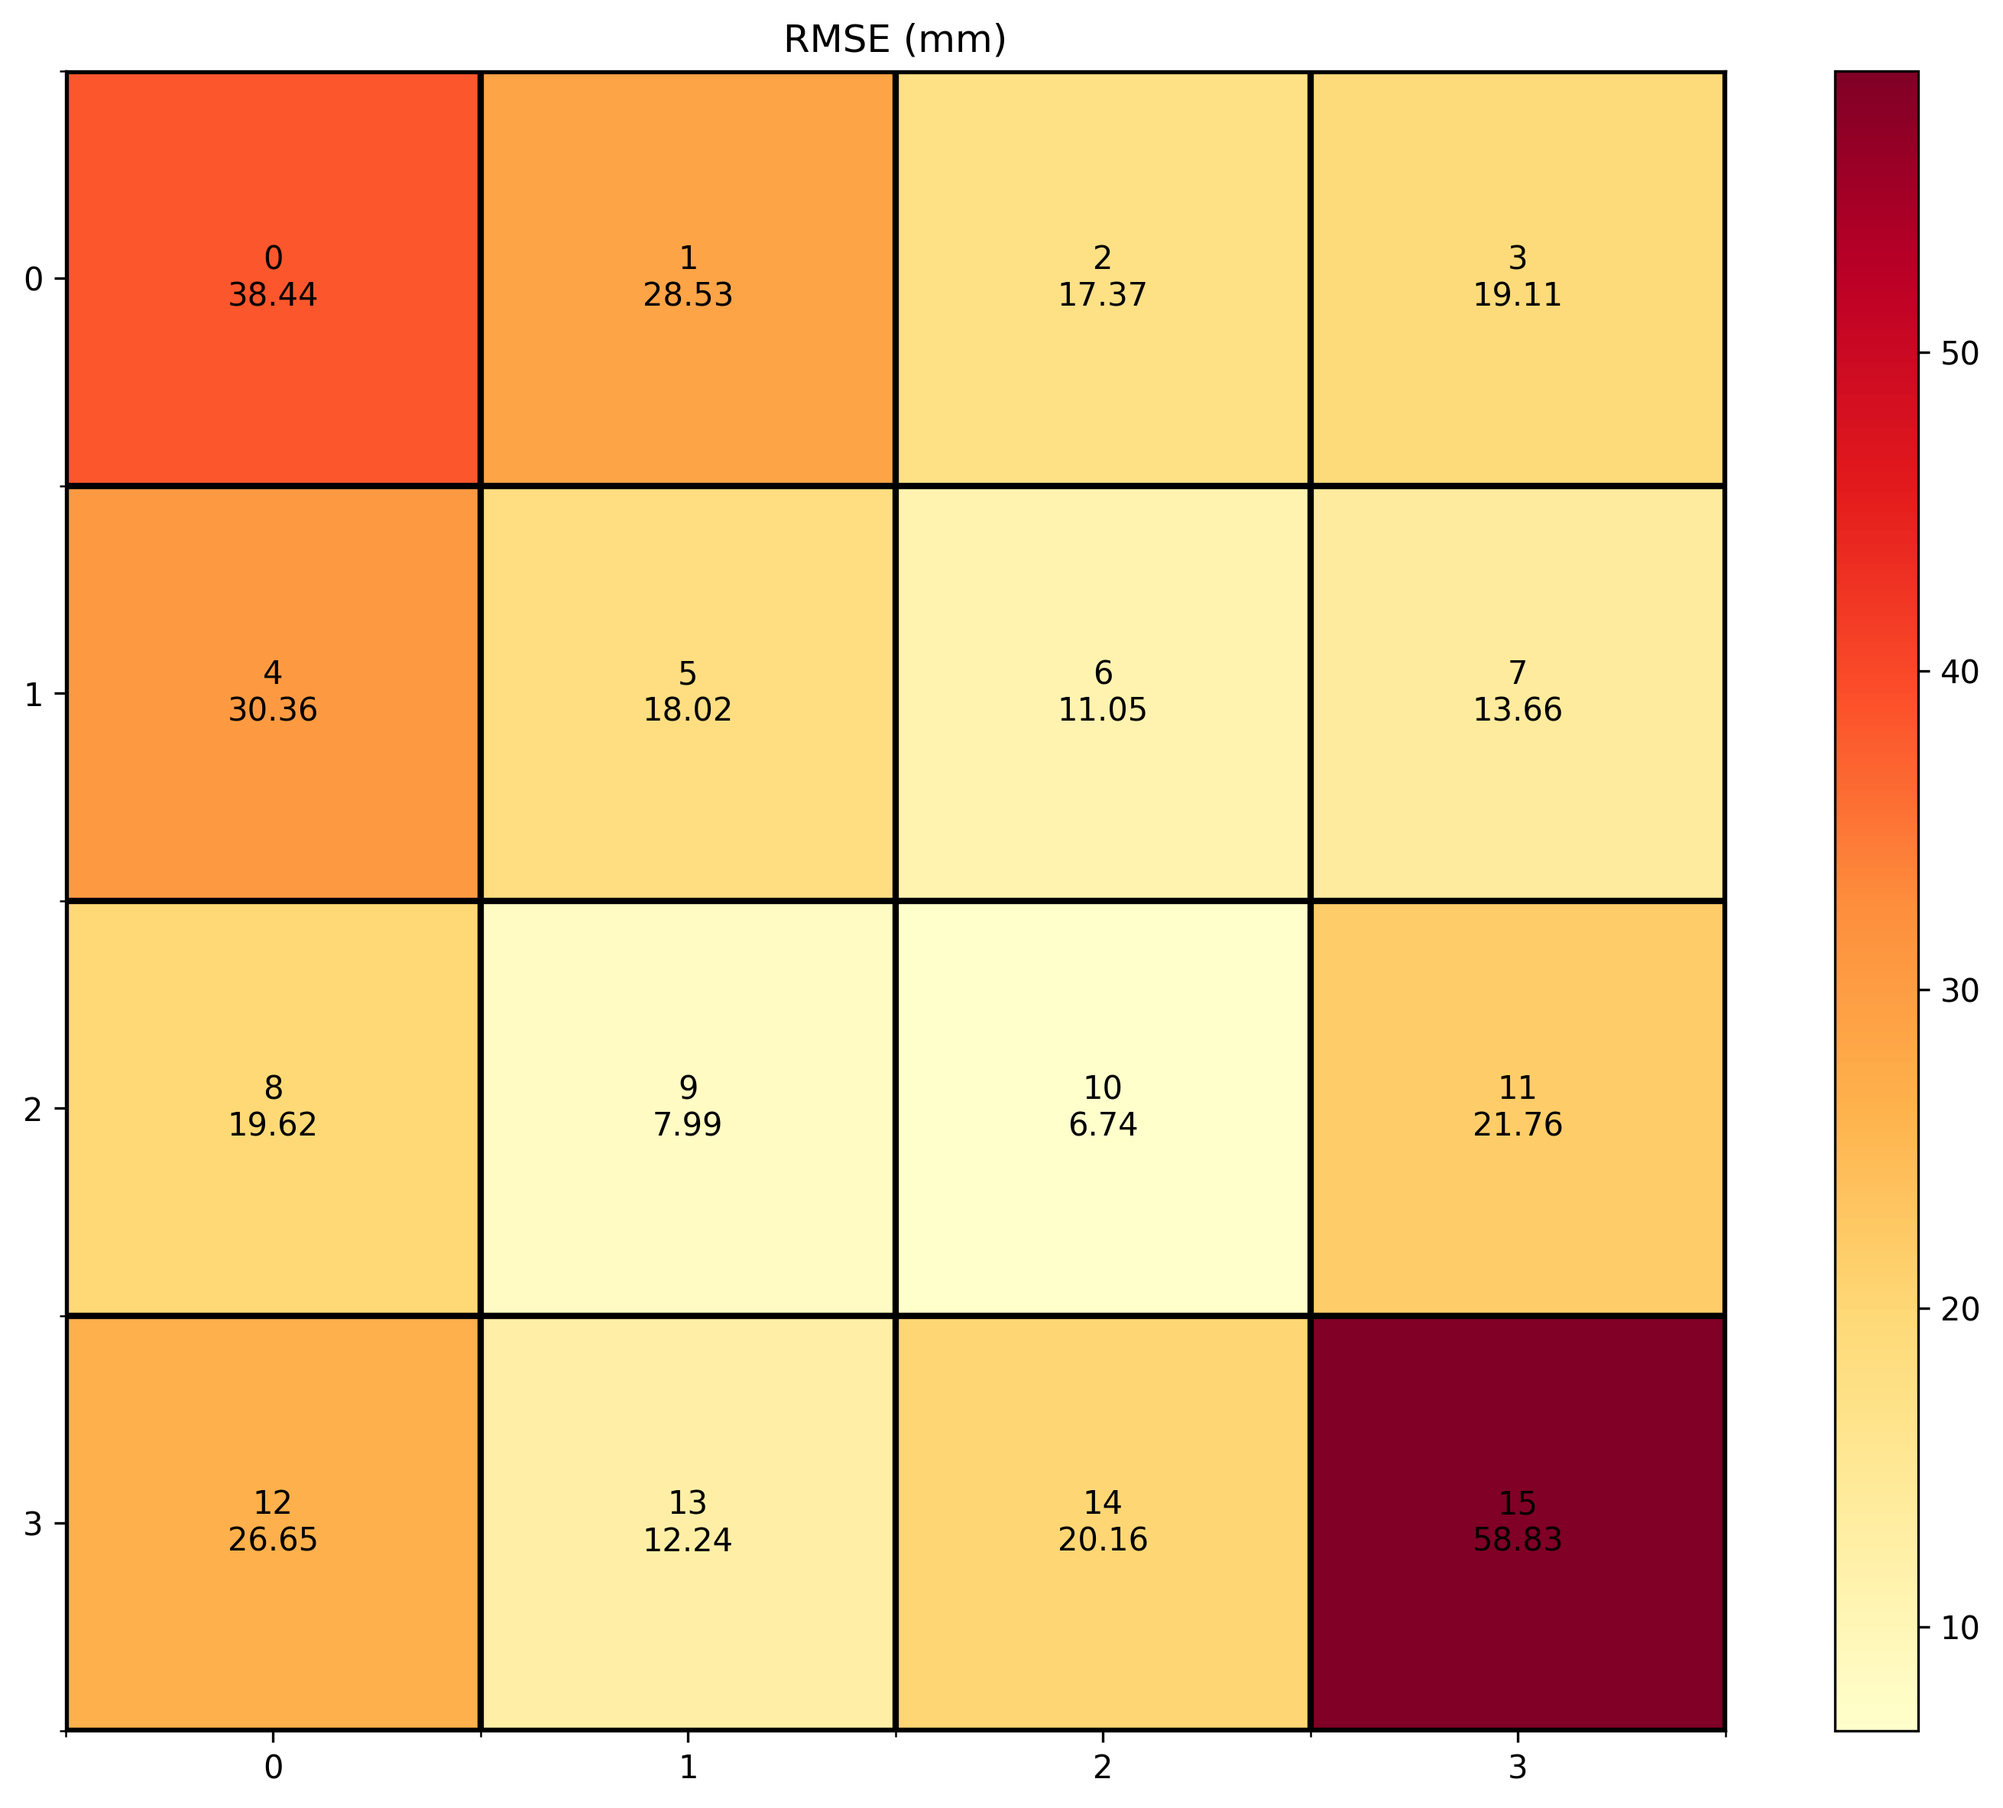
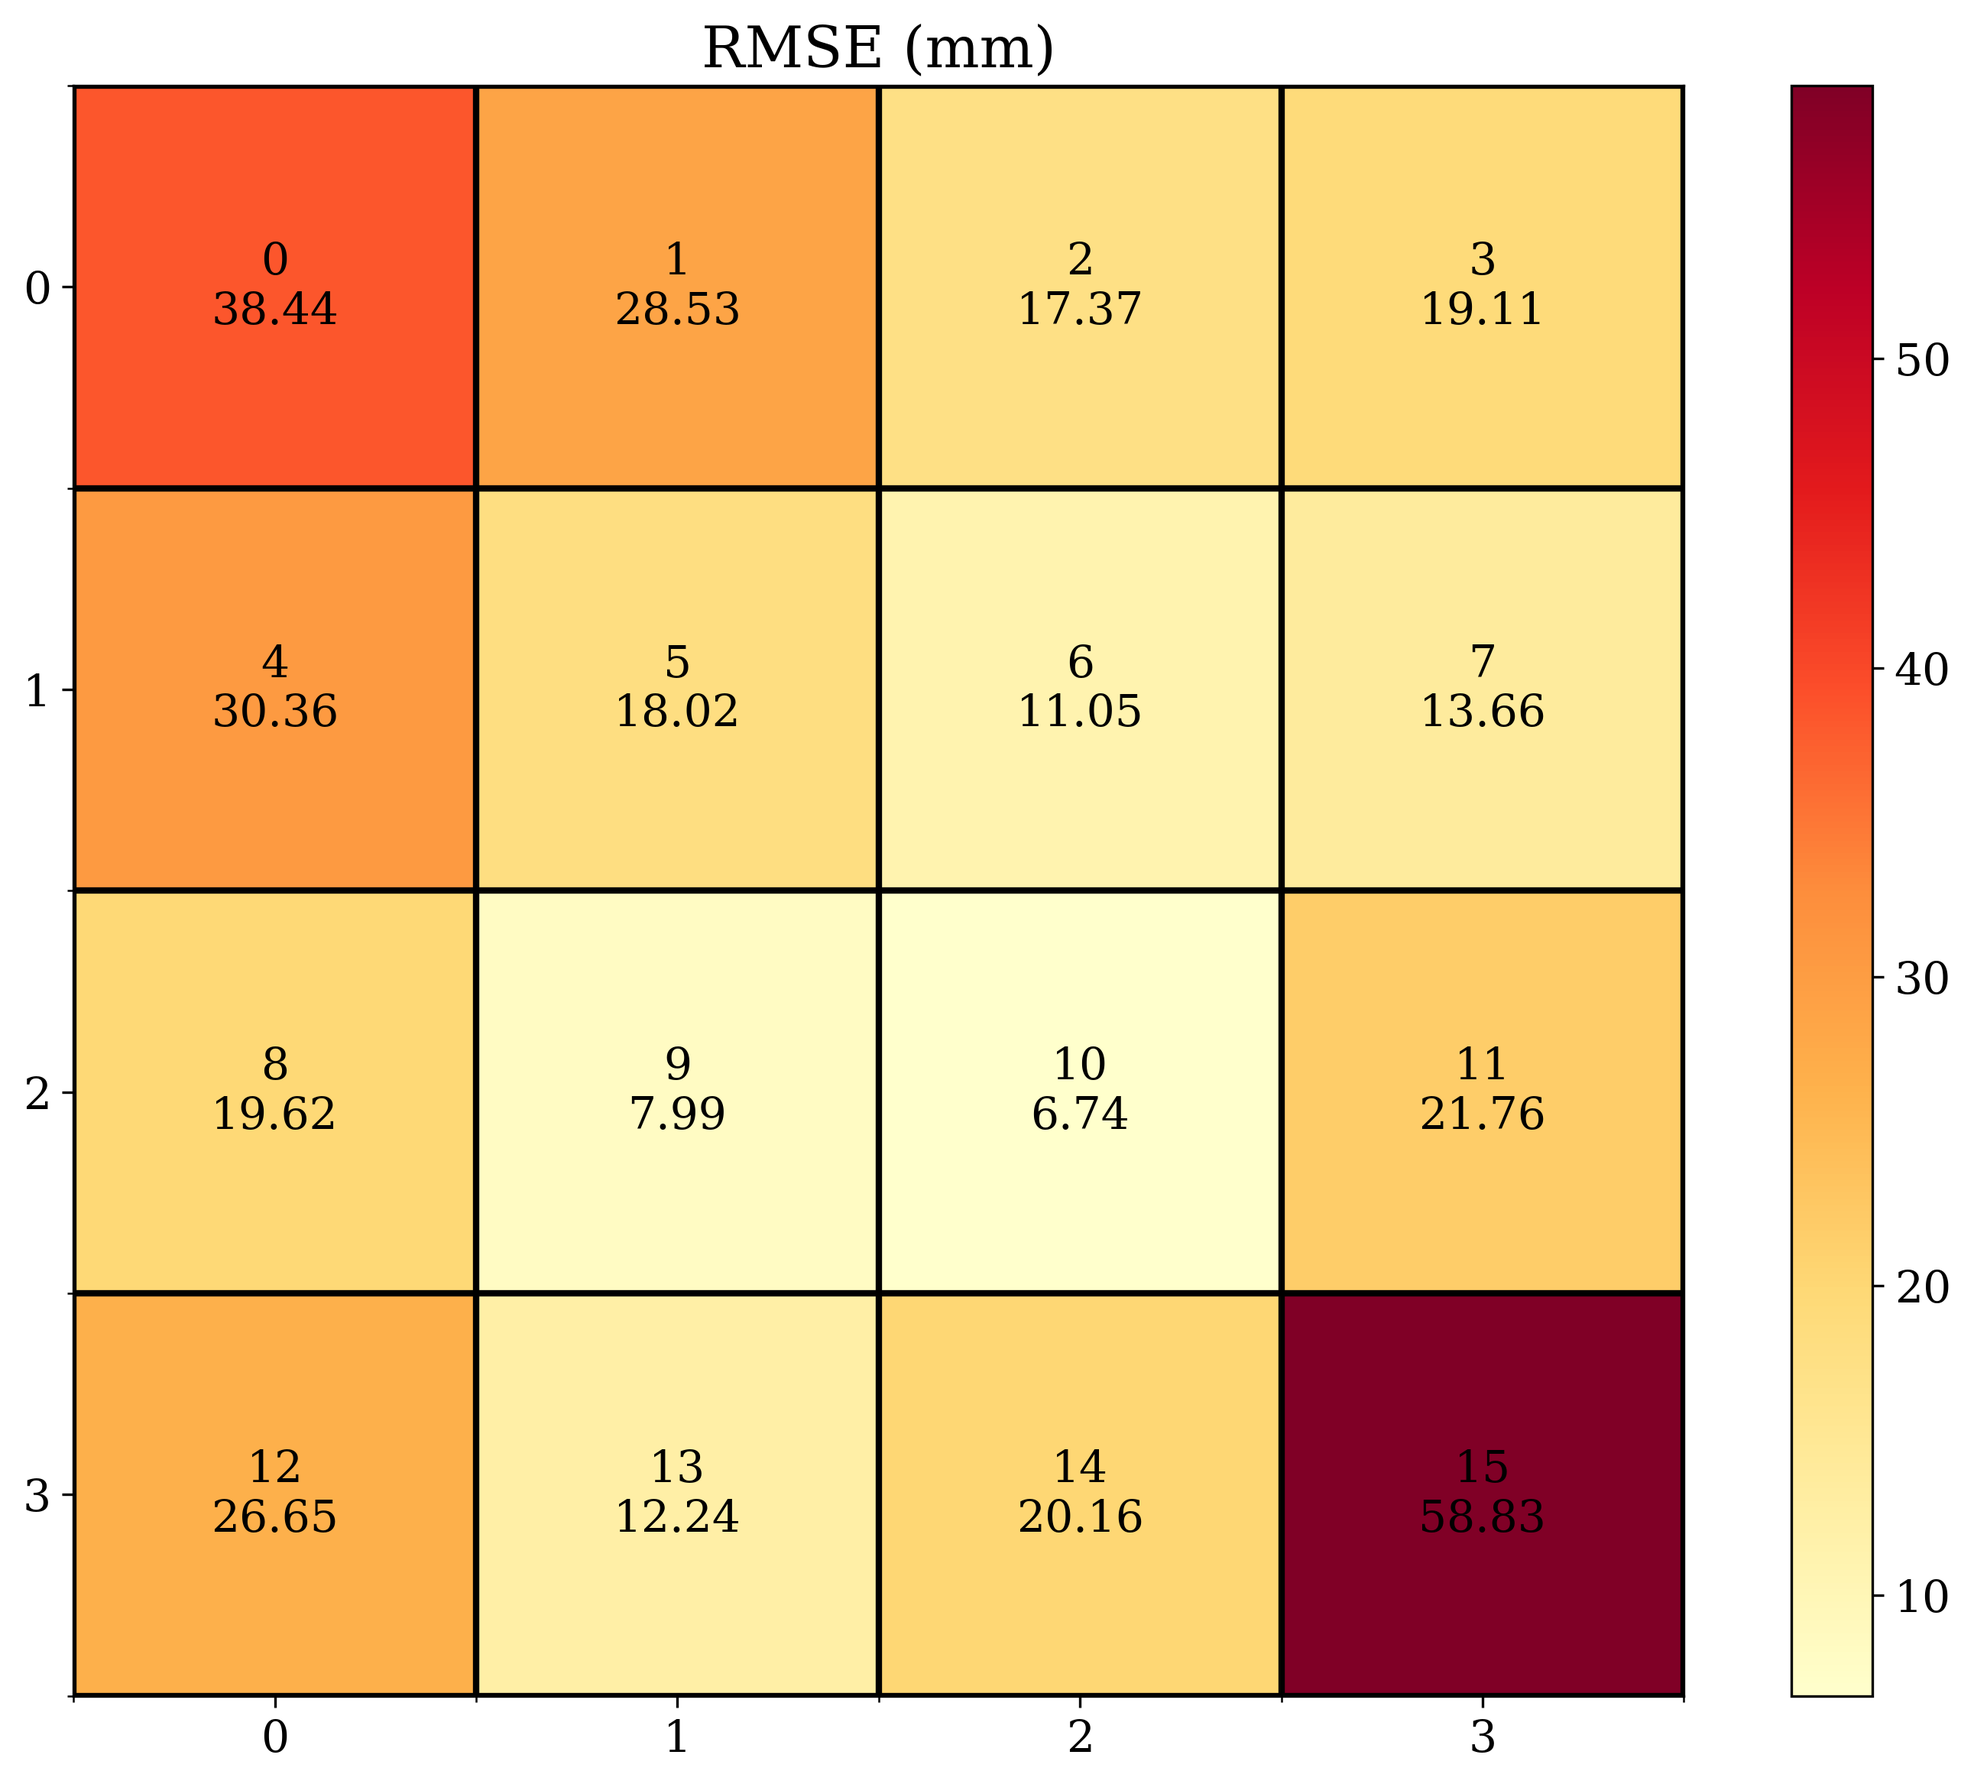
update fig

diff --git a/scripts/tof_error_analysis.py b/scripts/tof_error_analysis.py
@@ -1,16 +1,37 @@
 #!/usr/bin/env python3
 
 import numpy as np
-import matplotlib.pyplot as plt
 import json
 import os
 import glob
 import argparse
+
+import matplotlib.pyplot as plt
+import matplotlib as mpl
+from matplotlib import font_manager
 from matplotlib.colors import LinearSegmentedColormap
 
-# Set matplotlib to use non-interactive backend for headless environments
 import matplotlib
 matplotlib.use('Agg')
+
+
+plt.rcParams['figure.figsize'] = (12, 8)  # Larger default figure size
+plt.rcParams["figure.autolayout"]  = True
+plt.rcParams["figure.dpi"] = 300
+
+
+
+# Set font with fallbacks to system fonts
+plt.rcParams['font.family'] = 'serif'
+
+plt.rcParams['font.size'] = 14  # Base font size
+plt.rcParams['axes.titlesize'] = 18  # Title font size
+plt.rcParams['axes.labelsize'] = 16  # Axes labels font size
+plt.rcParams['xtick.labelsize'] = 14  # X-axis tick labels
+plt.rcParams['ytick.labelsize'] = 14  # Y-axis tick labels
+plt.rcParams['legend.fontsize'] = 14  # Legend font size
+plt.rcParams['figure.titlesize'] = 20  # Figure title size
+
 
 def load_data_from_directory(base_dir):
     """
